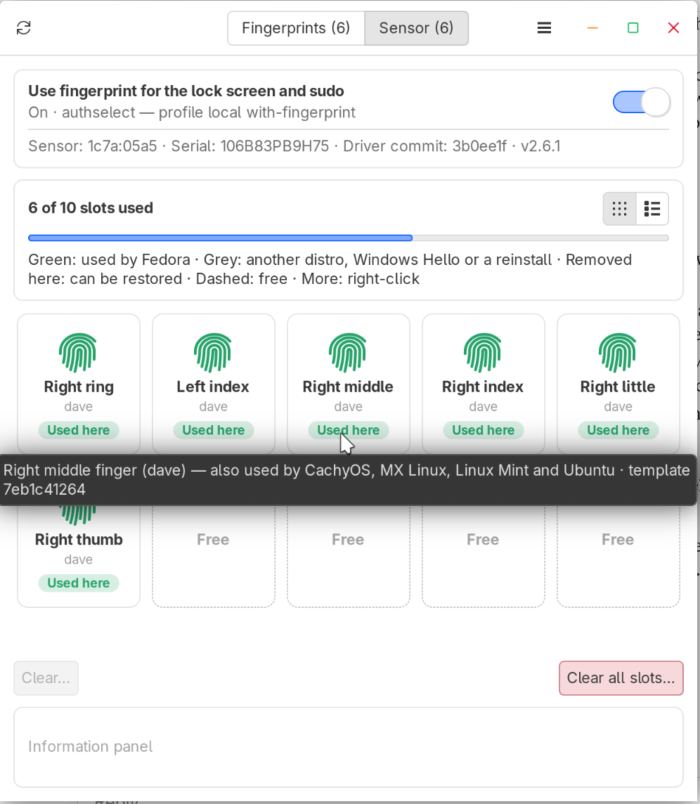
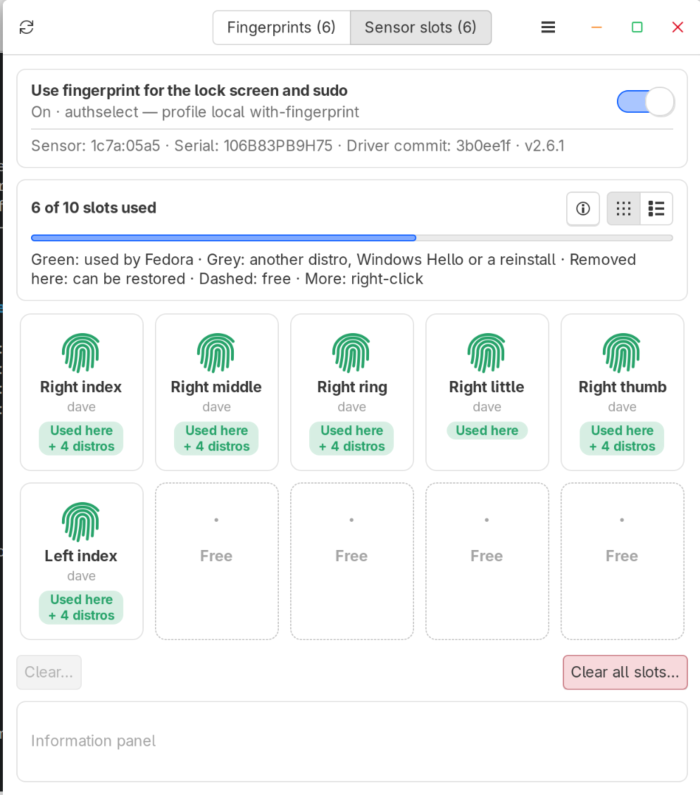
README: new Fingerprints and Sensor slots screenshots
Claude-Session: https://claude.ai/code/session_01VcMedtUznNVQTouJEiiEh4

diff --git a/README.md b/README.md
@@ -162,8 +162,8 @@ A small window for your fingerprints and the sensor, in the app menu as **Galaxy
 > - **Clearing a slot** (Sensor slots tab) erases the fingerprint itself, for every install. It can't be undone: that finger has to be enrolled again.
 
 <p>
-  <img src="images/fingerprint-manager.png" width="350" alt="Fingerprints tab: six fingers enrolled, the information panel at the bottom">
-  <img src="images/fingerprint-manager-sensor.png" width="350" alt="Sensor slots tab: six of ten slots used; hovering one says it is also used by CachyOS, MX Linux, Linux Mint and Ubuntu">
+  <img src="images/fingerprint-manager.png" width="350" alt="Fingerprints tab: six of ten fingers enrolled, on the sensor">
+  <img src="images/fingerprint-manager-sensor.png" width="350" alt="Sensor slots tab: six of ten slots used, five of them also used by four other distros">
 </p>
 <p>
   <img src="images/fingerprint-manager-enrol.png" width="350" alt="Enrolling the left middle finger: lift and touch again, 9 of 16 touches">
